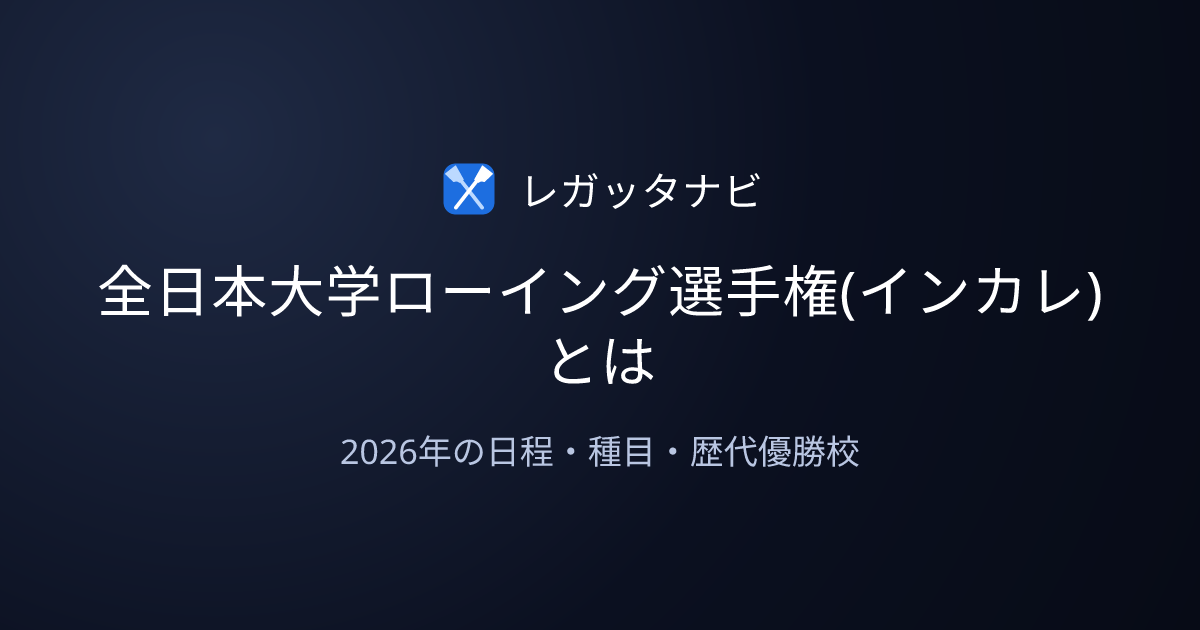
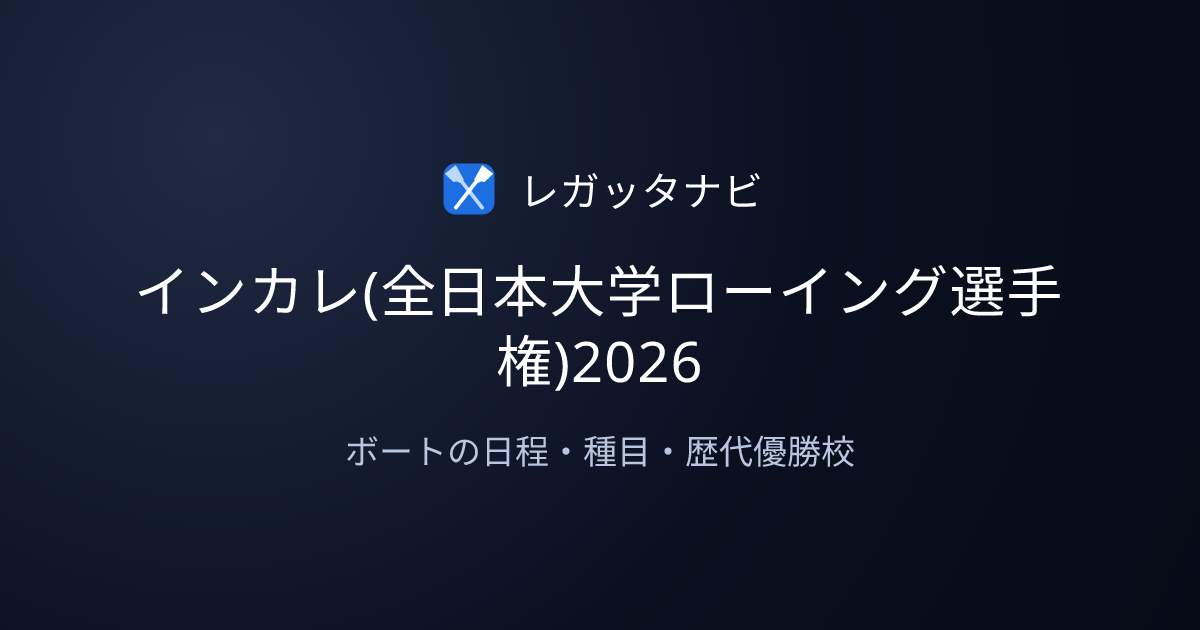
seo(articles): put インカレ and ボート in the championship guide title
Search Console の直近28日で「インカレ ボート 2026」が118表示・5クリック(CTR 4.2%)、
「インカレ ローイング 2026」が94表示・3クリック(3.2%)。サイト平均7.5%の半分以下で、
表示はされているのにクリックされていなかった。

旧タイトルは「全日本大学ローイング選手権(インカレ)とは | 2026年の日程・種目・歴代優勝校」で、
検索語の「ボート」を含んでいなかった。検索語が含まれないとスニペットで太字にならず
クリックされにくい。「インカレ」も後方にあった。

- title: インカレ を先頭に出し、正式名称はカッコで補足。「ボート」を追加
- description: 冒頭を「インカレ〜は2026年8月26日〜30日に戸田で開催」に変え、
  検索意図(いつ開催か)へ先に答える形にした

本文は変えていないので publishedAt はそのまま。タイトル変更にともない
article-thumbnails スキルでサムネイルを再生成した。

Changed region(s): [[0.0925, 0.4222, 0.925, 0.6333], [0.2775, 0.6937, 0.7092, 0.754]]

diff --git a/frontend/lib/articles.ts b/frontend/lib/articles.ts
@@ -19,9 +19,9 @@ export const articles: ArticleMeta[] = [
   },
   {
     slug: "university-championship-guide",
-    title: "全日本大学ローイング選手権(インカレ)とは | 2026年の日程・種目・歴代優勝校",
+    title: "インカレ(全日本大学ローイング選手権)2026 | ボートの日程・種目・歴代優勝校",
     description:
-      "大学ボート日本一を決める全日本大学ローイング選手権(インカレ)のガイド。2026年は8月26日〜30日に戸田で開催。種目構成、2025年の種目別優勝校、男子エイトの歴代優勝、今年の見どころを収録データからまとめました。",
+      "インカレ(全日本大学ローイング選手権)は2026年8月26日〜30日に戸田で開催。大学ボート日本一を決める大会の種目構成、2025年の種目別優勝校、男子エイトの歴代優勝、今年の見どころを収録データからまとめました。",
     publishedAt: "2026-07-22"
   },
   {
